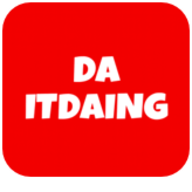
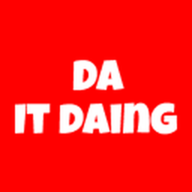
💄 style: 챗봇 예시 질문 실제 말투로 수정 & PWA 아이콘 통일
- 소비자/판매자 예시 질문을 구어체로 변경
- 팁 메시지도 대화체로 수정
- android-chrome-512x512.png 기준으로 모든 PWA 아이콘 통일
- favicon.ico, apple-touch-icon 등 재생성

diff --git a/itdaing-app/src/chatbot/components/ChatLayout.jsx b/itdaing-app/src/chatbot/components/ChatLayout.jsx
@@ -5,19 +5,19 @@ import ChatInput from './ChatInput';
 import RecommendationPanel from './RecommendationPanel';
 import useChatSession from '@/chatbot/hooks/useChatSession';
 
-// 모드별 빠른 질문 예시
+// 모드별 빠른 질문 예시 - 실제 사용자 말투로 작성
 const QUICK_QUESTIONS = {
   consumer: [
-    '이번 주말 플리마켓 추천해줘',
-    '12월에 열리는 마켓 알려줘',
-    '야시장 추천해줘',
-    '충장로 근처 플리마켓',
+    '주말에 갈만한 플리마켓 있어?',
+    '야시장 가고 싶은데 어디가 좋아?',
+    '충장로쪽 마켓 뭐 있어?',
+    '가족이랑 가기 좋은 데 추천해줘',
   ],
   seller: [
-    '초보 셀러에게 좋은 존 추천해줘',
-    '유동인구 많은 존은?',
-    '입점 승인 절차 알려줘',
-    '매출 올리는 팁 있어?',
+    '처음인데 어디서 시작하면 좋을까?',
+    '사람 많은 존 추천해줘',
+    '입점하려면 어떻게 해?',
+    '잘 파는 팁 좀 알려줘',
   ],
 };
 
@@ -35,25 +35,25 @@ const MODE_CONFIG = {
   },
 };
 
-// 모드별 팁 메시지
+// 모드별 팁 메시지 - 실제 대화체로 작성
 const MARKET_TIPS = {
   consumer: [
-    { emoji: '🛍', text: '"이번 주말 플리마켓" 처럼 시간을 알려주세요' },
-    { emoji: '📍', text: '"충장로 근처 마켓" 처럼 지역을 말해주세요' },
-    { emoji: '🌙', text: '"야시장" 이나 "달밤야시장" 도 찾아드려요' },
-    { emoji: '🎨', text: '"예술시장" 이나 "동명동 플리마켓" 도 있어요' },
-    { emoji: '❄', text: '"12월 마켓" 이나 "겨울 플리마켓" 도 추천해요' },
-    { emoji: '👨👩👧', text: '"가족과 가기 좋은 곳" 도 물어보세요' },
-    { emoji: '🍜', text: '"먹거리 있는 플리마켓" 도 찾을 수 있어요' },
-    { emoji: '✨', text: '"송정역시장" 이나 "대인시장" 도 추천해요' },
+    { emoji: '🛍', text: '"주말에 갈만한 데 있어?" 이렇게 물어봐도 돼요' },
+    { emoji: '📍', text: '"충장로 근처" 처럼 지역 말해주면 더 좋아요' },
+    { emoji: '🌙', text: '"야시장 가고 싶어" 라고 말해보세요' },
+    { emoji: '🎨', text: '"예술시장" "대인시장" 도 찾아드려요' },
+    { emoji: '❄', text: '"이번달 마켓 뭐 있어?" 도 가능해요' },
+    { emoji: '👨👩👧', text: '"애들이랑 가기 좋은 데" 도 추천해요' },
+    { emoji: '🍜', text: '"먹을거 있는 마켓" 도 알려드려요' },
+    { emoji: '✨', text: '"송정역시장 언제 해?" 도 물어보세요' },
   ],
   seller: [
-    { emoji: '📊', text: '"초보 셀러에게 좋은 존" 을 추천받아보세요' },
-    { emoji: '👥', text: '"유동인구 많은 존" 을 물어보세요' },
-    { emoji: '📝', text: '"입점 절차" 에 대해 안내해드려요' },
-    { emoji: '🎯', text: '"매출 올리는 팁" 도 알려드려요' },
-    { emoji: '📍', text: '"동구 플리마켓 존" 을 찾아드려요' },
-    { emoji: '🏪', text: '"주말에 열리는 존" 도 추천해요' },
+    { emoji: '📊', text: '"처음인데 어디가 좋아?" 라고 물어보세요' },
+    { emoji: '👥', text: '"사람 많은 데 추천해줘" 도 가능해요' },
+    { emoji: '📝', text: '"입점 어떻게 해?" 안내해드려요' },
+    { emoji: '🎯', text: '"잘 팔려면?" 팁도 알려드려요' },
+    { emoji: '📍', text: '"동구쪽 존 있어?" 찾아드려요' },
+    { emoji: '🏪', text: '"주말에 열리는 데" 도 추천해요' },
   ],
 };
 

diff --git a/itdaing-app/src/components/common/ChatbotButton.jsx b/itdaing-app/src/components/common/ChatbotButton.jsx
@@ -50,11 +50,11 @@ const ChatbotButton = ({ mode = 'floating', onClickOverride }) => {
               </button>
             </div>
 
-            <div className="px-5 py-4 space-y-3 text-sm text-gray-700">
-              <p>• 오늘 열리는 팝업 알려줘</p>
-              <p>• 내 팝업 노출 통계 보여줘</p>
-              <p>• 팝업 등록 가이드 알려줘</p>
-            </div>
+              <div className="px-5 py-4 space-y-3 text-sm text-gray-700">
+                <p>• 오늘 열리는 마켓 뭐 있어?</p>
+                <p>• 내 팝업 조회수 보여줘</p>
+                <p>• 등록은 어떻게 해?</p>
+              </div>
 
             <div className="px-5 pb-5">
               <button
@@ -97,9 +97,9 @@ const ChatbotButton = ({ mode = 'floating', onClickOverride }) => {
               </div>
 
               <div className="px-5 py-4 space-y-3 text-sm text-gray-700">
-                <p>• 이번 주말 플리마켓 추천해줘</p>
-                <p>• 충장로 근처 플리마켓 알려줘</p>
-                <p>• 야시장 추천해줘</p>
+                <p>• 주말에 갈만한 플리마켓 있어?</p>
+                <p>• 충장로쪽 마켓 뭐 있어?</p>
+                <p>• 야시장 가고 싶은데</p>
               </div>
 
               <div className="px-5 pb-5">
